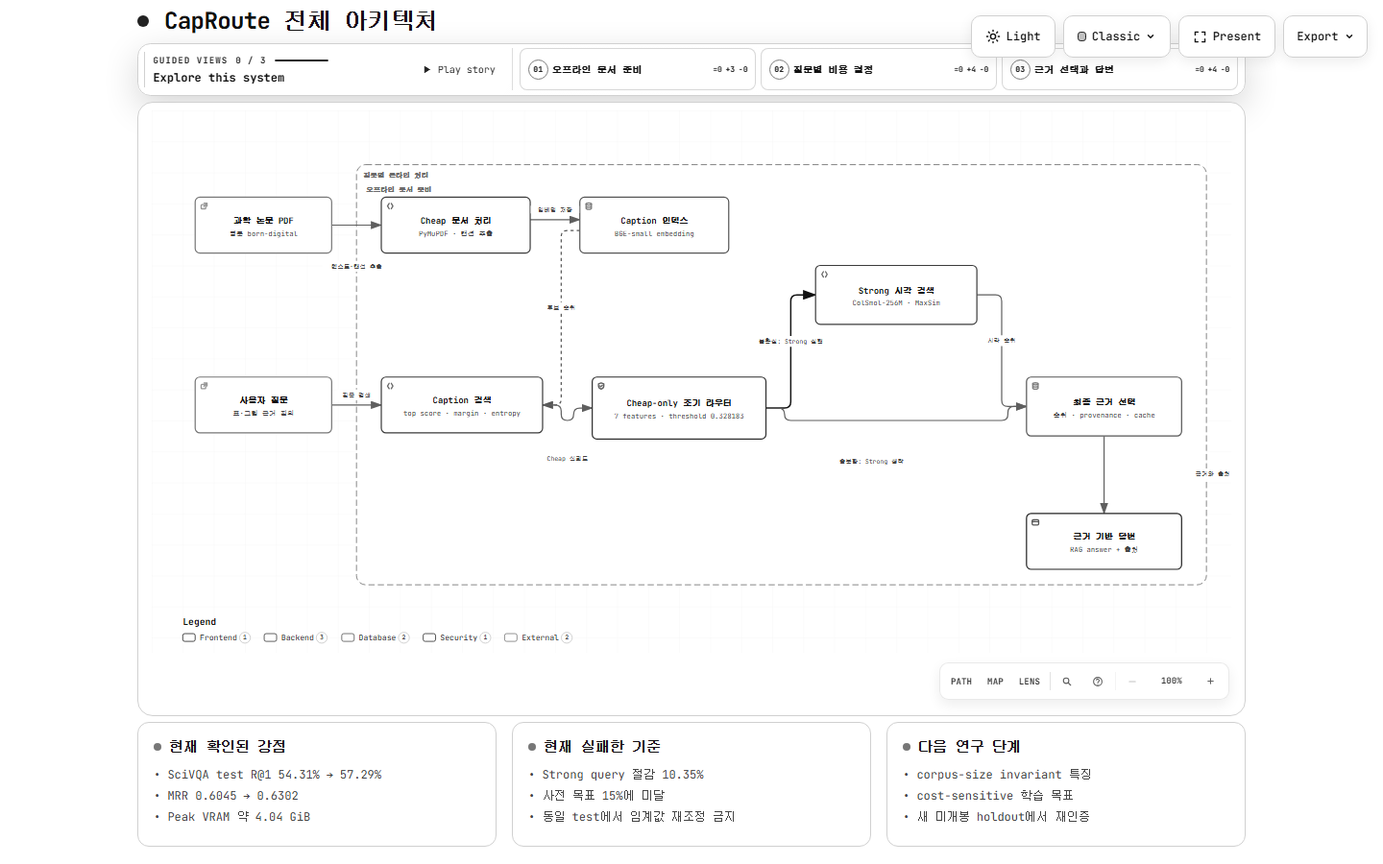
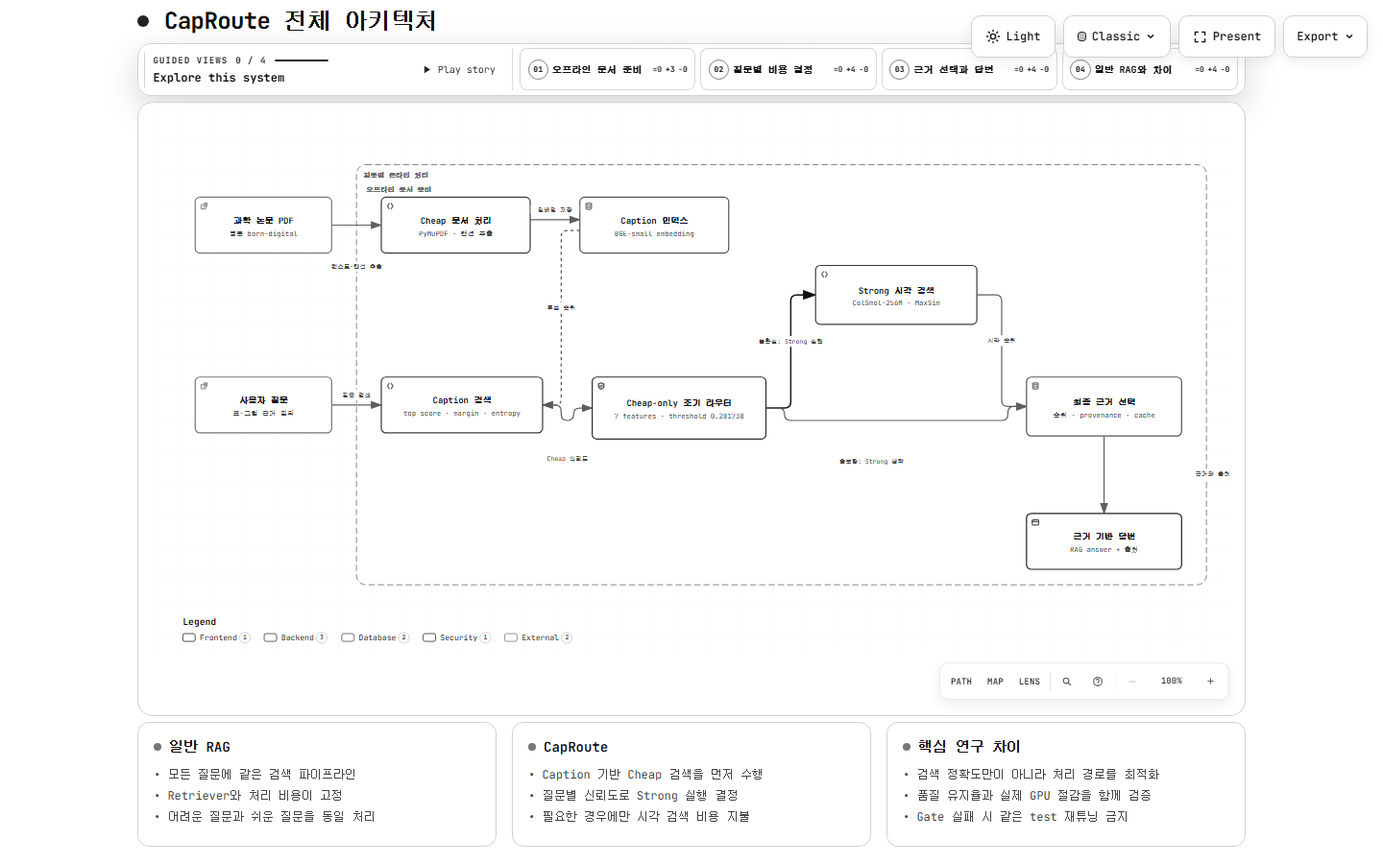
docs: compare CapRoute with standard RAG

diff --git a/caproute_full_architecture.html b/caproute_full_architecture.html
@@ -4969,52 +4969,25 @@ OTHER DEALINGS IN THE FONT SOFTWARE.
     }
   </style>
   <style id="caproute-monochrome-override">
-    /* Project rule: white canvas, black/gray text and connectors, no accent colors. */
-    html,
-    html[data-theme],
-    html[data-preset][data-theme] {
-      --bg: #ffffff !important;
-      --grid: #ececec !important;
-      --text: #111111 !important;
-      --text-muted: #444444 !important;
-      --text-dim: #666666 !important;
-      --text-faint: #777777 !important;
-      --panel: #ffffff !important;
-      --panel-border: #d0d0d0 !important;
-      --lane-fill: rgba(17, 17, 17, 0.025) !important;
-      --lane-stroke: #b8b8b8 !important;
-      --arrow: #5f5f5f !important;
-      --arrow-emphasis: #111111 !important;
-      --mask: #ffffff !important;
-      --frontend-fill: #ffffff !important;
-      --frontend-stroke: #222222 !important;
-      --backend-fill: #ffffff !important;
-      --backend-stroke: #3b3b3b !important;
-      --database-fill: #ffffff !important;
-      --database-stroke: #555555 !important;
-      --cloud-fill: #ffffff !important;
-      --cloud-stroke: #6b6b6b !important;
-      --security-fill: #ffffff !important;
-      --security-stroke: #2d2d2d !important;
-      --messagebus-fill: #ffffff !important;
-      --messagebus-stroke: #4a4a4a !important;
-      --external-fill: #ffffff !important;
-      --external-stroke: #777777 !important;
-      --toolbar-bg: rgba(255, 255, 255, 0.97) !important;
-      --toolbar-border: #d0d0d0 !important;
-      --toolbar-hover: #eeeeee !important;
-      --toolbar-menu-bg: #ffffff !important;
-      --toolbar-text: #111111 !important;
-      --guide-accent: #222222 !important;
-      --lens-color: #111111 !important;
-      --reach-color: #333333 !important;
-      --reach-fill: rgba(17, 17, 17, 0.06) !important;
+    html, html[data-theme], html[data-preset][data-theme] {
+      --bg:#fff!important;--grid:#ececec!important;--text:#111!important;
+      --text-muted:#444!important;--text-dim:#666!important;--text-faint:#777!important;
+      --panel:#fff!important;--panel-border:#d0d0d0!important;
+      --lane-fill:rgba(17,17,17,.025)!important;--lane-stroke:#b8b8b8!important;
+      --arrow:#5f5f5f!important;--arrow-emphasis:#111!important;--mask:#fff!important;
+      --frontend-fill:#fff!important;--frontend-stroke:#222!important;
+      --backend-fill:#fff!important;--backend-stroke:#3b3b3b!important;
+      --database-fill:#fff!important;--database-stroke:#555!important;
+      --cloud-fill:#fff!important;--cloud-stroke:#6b6b6b!important;
+      --security-fill:#fff!important;--security-stroke:#2d2d2d!important;
+      --messagebus-fill:#fff!important;--messagebus-stroke:#4a4a4a!important;
+      --external-fill:#fff!important;--external-stroke:#777!important;
+      --toolbar-bg:rgba(255,255,255,.97)!important;--toolbar-border:#d0d0d0!important;
+      --toolbar-hover:#eee!important;--toolbar-menu-bg:#fff!important;--toolbar-text:#111!important;
+      --guide-accent:#222!important;--lens-color:#111!important;
+      --reach-color:#333!important;--reach-fill:rgba(17,17,17,.06)!important;
     }
-    .c-region,
-    .c-lane,
-    .c-security-group {
-      fill: #ffffff !important;
-    }
+    .c-region,.c-lane,.c-security-group{fill:#fff!important}
   </style>
 </head>
 <body>
@@ -5128,7 +5101,7 @@ OTHER DEALINGS IN THE FONT SOFTWARE.
       </div>
     </div>
 
-    <script id="archify-guided-views-data" type="application/json">[{"id":"offline","label":"오프라인 문서 준비","focus":["scientific_pdf","cheap_ingestion","caption_index"],"note":"PDF에서 캡션을 추출하고 모든 질문이 공유하는 Cheap 인덱스를 만듭니다."},{"id":"decision","label":"질문별 비용 결정","focus":["user_query","caption_retrieval","early_router","visual_retrieval"],"note":"Cheap 신호만으로 Strong 시각 검색을 실행할지 먼저 결정합니다."},{"id":"answer","label":"근거 선택과 답변","focus":["caption_retrieval","visual_retrieval","evidence_selector","rag_answer"],"note":"선택된 검색 결과와 출처를 답변 생성 단계에 전달합니다."}]</script>
+    <script id="archify-guided-views-data" type="application/json">[{"id":"offline","label":"오프라인 문서 준비","focus":["scientific_pdf","cheap_ingestion","caption_index"],"note":"PDF에서 캡션을 추출하고 모든 질문이 공유하는 Cheap 인덱스를 만듭니다."},{"id":"decision","label":"질문별 비용 결정","focus":["user_query","caption_retrieval","early_router","visual_retrieval"],"note":"Cheap 신호만으로 Strong 시각 검색을 실행할지 먼저 결정합니다."},{"id":"answer","label":"근거 선택과 답변","focus":["caption_retrieval","visual_retrieval","evidence_selector","rag_answer"],"note":"선택된 검색 결과와 출처를 답변 생성 단계에 전달합니다."},{"id":"difference","label":"일반 RAG와 차이","focus":["caption_retrieval","early_router","visual_retrieval","evidence_selector"],"note":"일반 RAG는 모든 질문에 같은 검색 경로를 쓰지만, CapRoute는 Cheap 결과의 신뢰도를 보고 Strong 시각 검색 실행 여부를 질문별로 결정합니다."}]</script>
 
     <script id="archify-i18n-data" type="application/json">{"locale":"en","messages":{"viewer.kind.frontend":"Frontend","viewer.kind.backend":"Backend","viewer.kind.database":"Database","viewer.kind.cloud":"Cloud","viewer.kind.security":"Security","viewer.kind.messagebus":"Message bus","viewer.kind.external":"External","viewer.kind.neutral":"Neutral","viewer.kind.node":"Node","viewer.kind.start":"Start","viewer.kind.active":"Active","viewer.kind.waiting":"Waiting","viewer.kind.decision":"Decision","viewer.kind.success":"Success","viewer.kind.failure":"Failure","viewer.toolbar.actions":"Diagram actions","viewer.theme.toggle.title":"Toggle theme (T)","viewer.theme.toggle":"Toggle color theme","viewer.theme.dark":"Dark","viewer.theme.light":"Light","viewer.preset.choose.title":"Choose visual style (S cycles)","viewer.preset.choose":"Choose visual style","viewer.preset.style":"Style","viewer.preset.menu":"Visual style","viewer.preset.identity":"Visual identity","viewer.preset.cycles":"S cycles","viewer.preset.classic":"Classic","viewer.preset.classic.short":"Classic","viewer.preset.classic.hint":"Stable technical default","viewer.preset.flow":"Signal Flow","viewer.preset.flow.short":"Flow","viewer.preset.flow.hint":"Motion-forward presentation","viewer.preset.blueprint":"Blueprint","viewer.preset.blueprint.hint":"Engineering review","viewer.preset.editorial":"Editorial","viewer.preset.editorial.hint":"Publication and launch notes","viewer.preset.badge.signalFlow":"SIGNAL FLOW","viewer.preset.badge.blueprint":"BLUEPRINT / REV 01","viewer.preset.badge.editorial":"EDITORIAL / FIELD NOTE","viewer.preset.badge.editorialPlate":"ARCHIFY / PLATE 04","viewer.preset.current":"Visual style: {style}. Choose visual style","viewer.motion.live":"Live","viewer.motion.still":"Still","viewer.motion.pause":"Pause motion","viewer.motion.resume":"Resume motion","viewer.motion.reduced":"Motion paused by reduced-motion preference","viewer.motion.hidden":"Motion paused while this page is hidden","viewer.motion.yielding":"Pause motion; currently yielding to {owner}","viewer.motion.yielding.title":"Live preview enabled · yielding to {owner}","viewer.owner.story":"the guided story","viewer.owner.chapter":"the active chapter","viewer.owner.chapterPreview":"the chapter delta preview","viewer.owner.handoff":"the chapter handoff","viewer.owner.route":"Route Probe","viewer.owner.lens":"Semantic Lens","viewer.owner.relationship":"Relationship Preview","viewer.owner.intent":"Intent Trace","viewer.owner.focus":"semantic focus","viewer.owner.legend":"legend preview","viewer.owner.reader":"reader interaction","viewer.present.enter":"Enter presentation stage","viewer.present.enter.title":"Presentation stage (F)","viewer.present.exit":"Exit presentation stage","viewer.present.exit.title":"Exit presentation stage (F or Escape)","viewer.present.present":"Present","viewer.present.exit.label":"Exit","viewer.export.button":"Export","viewer.export.button.title":"Export diagram (E)","viewer.export.diagram":"Export diagram","viewer.export.menu":"Export","viewer.export.subtitle":"Portable, clean outputs","viewer.export.share":"Share","viewer.export.shareCard":"Share Card","viewer.export.routeShareCard":"Route Share Card","viewer.export.reachShareCard":"Reach Share Card","viewer.export.copyShareCard":"Copy Share Card","viewer.export.copyDiagram":"Copy diagram","viewer.export.clipboardPng":"PNG to clipboard","viewer.export.raster":"Raster images","viewer.export.image":"Image","viewer.export.lossless":"Lossless image","viewer.export.compact":"Compact image","viewer.export.modern":"Modern image","viewer.export.vectorMotion":"Vector and motion","viewer.export.vectorMotion.heading":"Vector \u0026 motion","viewer.export.editable":"Editable vector","viewer.export.motion6s":"6s motion","viewer.export.unsupported":"Not supported by this browser","viewer.export.clipboardUnsupported":"Clipboard image write not supported by this browser","viewer.export.clipboardUnsupported.period":"Clipboard image write not supported by this browser.","viewer.export.clipboardUnsupported.short":"Clipboard image write not supported in this browser.","viewer.export.motionUnavailable":"Motion capture unavailable in this browser","viewer.export.webmUnavailable":"WebM unavailable in this browser","viewer.export.failed":"Export failed: {message}","viewer.export.unknownVariant":"Unknown Share Card variant: {variant}","viewer.export.routeRequired":"Trace a route before exporting a Route Share Card","viewer.export.reachRequired":"Trace authored reach before exporting a Reach Share Card","viewer.export.unknown":"unknown","viewer.export.routeFailed":"Route Share Card export failed: {message}","viewer.export.reachFailed":"Reach Share Card export failed: {message}","viewer.export.copyFailed":"Copy failed: {message}","viewer.export.copiedPng":"Copied PNG to clipboard","viewer.export.copiedShare":"Copied Share Card","viewer.export.downloadedShare":"Downloaded Share Card","viewer.export.downloadedRoute":"Downloaded Route Share Card","viewer.export.downloadedReach":"Downloaded Reach Share Card","viewer.export.downloadedWebm":"Downloaded WebM","viewer.export.recording":"Recording 6 seconds of motion…","viewer.export.card.routeSummary.one":"Route: {source} → {target} · {count} directed hop","viewer.export.card.routeSummary.other":"Route: {source} → {target} · {count} directed hops","viewer.export.card.reachSummary":"Authored {direction} from {origin} · {nodes} · {links} · max {hops}","viewer.export.card.node.one":"{count} node","viewer.export.card.node.other":"{count} nodes","viewer.export.card.link.one":"{count} link","viewer.export.card.link.other":"{count} links","viewer.export.card.hop.one":"{count} hop","viewer.export.card.hop.other":"{count} hops","viewer.export.card.routeBadge":"ARCHIFY · ROUTE · {hops}","viewer.export.card.reachBadge":"ARCHIFY · {direction} REACH","viewer.export.card.defaultBadge":"ARCHIFY · {preset} · {theme}","viewer.export.direction.upstream":"Upstream","viewer.export.direction.downstream":"Downstream","viewer.export.error.canvasUnavailable":"Canvas unavailable for {label}","viewer.export.error.contextUnavailable":"2D canvas context unavailable for {label}","viewer.export.error.toBlobUnavailable":"canvas.toBlob unavailable for {label}","viewer.export.error.toBlobNull":"canvas.toBlob returned no data for {label}","viewer.export.error.variantsCombined":"Share Card variants cannot be combined","viewer.export.error.viewerState":"Share Card export could not remove temporary viewer state","viewer.export.error.routeState":"Route Card export could not preserve the resolved route safely","viewer.export.error.reachState":"Reach Card export could not preserve authored reach safely","viewer.export.error.webmRequirements":"WebM motion export requires a trace animation and browser MediaRecorder support","viewer.export.error.mediaRecorder":"MediaRecorder failed","viewer.export.error.emptyWebm":"MediaRecorder produced an empty WebM","viewer.export.error.webmBackground":"SVG background could not be loaded for WebM export","viewer.guided.region":"Guided diagram views","viewer.guided.previous":"Previous guided view","viewer.guided.previous.title":"Previous guided view ([)","viewer.guided.next":"Next guided view","viewer.guided.next.title":"Next guided view (])","viewer.guided.views":"Guided views","viewer.guided.explore":"Explore this system","viewer.guided.intro":"Step through curated paths without changing the source diagram.","viewer.guided.trail":"Story trail","viewer.guided.beat":"Beat","viewer.guided.nextBeat":"Next","viewer.guided.play":"Play guided story","viewer.guided.play.title":"Play guided story (P)","viewer.guided.pause":"Pause guided story","viewer.guided.pause.title":"Pause guided story (P)","viewer.guided.replay":"Replay guided story","viewer.guided.replay.title":"Replay guided story (P)","viewer.guided.playStory":"Play story","viewer.guided.pauseStory":"Pause","viewer.guided.replayStory":"Replay story","viewer.guided.motionUnavailable":"Story playback unavailable while motion is Still","viewer.guided.enableMotion":"Switch motion to Live to play the guided story","viewer.guided.selectBeatLink":"Select a Story Beat to copy its exact link","viewer.guided.copyMoment":"Copy moment","viewer.guided.momentCopied":"Moment link copied","viewer.guided.momentCopyFailed":"Could not copy story moment link","viewer.guided.copied":"Copied","viewer.guided.copyFailed":"Copy failed","viewer.guided.showAll":"Show all","viewer.guided.showAll.aria":"Show entire diagram","viewer.guided.chapters":"Story chapters","viewer.guided.storyTrail":"Story trail for {label}: {count} beats","viewer.guided.chapter.open":"Open chapter {index} of {total}: {label}, {count} stops","viewer.guided.chapter.current":"Current chapter {index} of {total}: {label}, {count} stops","viewer.guided.chapter.selectedNodes":"{count} selected nodes","viewer.guided.chapter.stops":"{count} stops","viewer.guided.chapter.stop.one":"{count} stop","viewer.guided.chapter.stop.other":"{count} stops","viewer.guided.chapter.current.title":"{label} — current chapter, {count} stops","viewer.guided.chapter.delta.expanded":"{stay} stay, {enter} enter, {leave} leave","viewer.guided.chapter.delta.aria":"Open chapter {index} of {total}: {label}. Chapter focus delta: {delta}","viewer.guided.chapter.delta.title":"{label} — {delta} chapter focus","viewer.guided.handoff":"{from} → {to} · via {label}","viewer.guided.share.chapter":"Chapter {index} / {total}","viewer.guided.share.initial":"Chapter 01 / 01","viewer.guided.share.default":"Guided chapter","viewer.guided.state.ready":"Ready","viewer.guided.state.playing":"Playing","viewer.guided.state.settled":"Settled","viewer.guided.state.paused":"Paused","viewer.guided.state.pinned":"Pinned","viewer.guided.state.still":"Still","viewer.guided.share.step":"Step {index} / {total} · {label}","viewer.guided.share.staticMoment":"{step} · Static moment","viewer.guided.share.complete":"{count} steps complete · {note}","viewer.guided.share.settled":"Path settled for reading.","viewer.guided.share.staticPath":"{count} steps · Static path","viewer.guided.share.ready":"{count} steps · Ready","viewer.guided.share.aria":"{state} chapter {index} of {total}: {label}. {beat}. {route}","viewer.guided.beat.start":"Beat {index} / {total} · {label} · starting point","viewer.guided.beat.forward":"Beat {index} / {total} · {from} → {to}","viewer.guided.beat.reverse":"Beat {index} / {total} · {from} → {to} · reverse authored link","viewer.guided.beat.multiple":"Beat {index} / {total} · {from} ⇄ {to} · {count} authored links","viewer.guided.beat.group":"Beat {index} / {total} · {from} · {to} · grouped · no direct link","viewer.guided.beat.aria.prefix":"Story beat {index} of {total}: {label}. ","viewer.guided.beat.aria.start":"Starting point.","viewer.guided.beat.aria.forward":"From {from} through one authored forward relationship.","viewer.guided.beat.aria.reverse":"From {from}; the authored relationship points from {to} to {from}.","viewer.guided.beat.aria.multiple":"From {from} through {count} authored relationships; shown without arbitrary motion.","viewer.guided.beat.aria.group":"Grouped from {from} with no direct authored relationship.","viewer.guided.caption.start":"Starting point","viewer.guided.caption.grouped":"Grouped transition · no direct authored link","viewer.guided.caption.more":" +{count} more","viewer.guided.caption.reverse":"Reverse authored relationship","viewer.guided.caption.relationships":"{count} authored relationships","viewer.guided.caption.relationship":"Authored relationship","viewer.guided.caption.direction":"authored direction: {from} → {to}","viewer.guided.caption.starting":"Authored starting point","viewer.guided.beatLink":"Copy link to current story moment: Beat {index} of {total}: {label}","viewer.guided.noStory":"This diagram has no authored guided story.","viewer.guide.eyebrow":"Diagram guide","viewer.guide.close":"Close diagram guide","viewer.guide.inspecting":"Inspecting compiled semantics","viewer.guide.actions":"Diagram exploration actions","viewer.guide.find":"Find any node","viewer.guide.find.hint":"Search labels, responsibilities, kinds, and stable IDs.","viewer.guide.route":"Trace a route","viewer.guide.route.aria":"Trace a directed route","viewer.guide.route.hint":"Ask how two semantic nodes connect in authored direction.","viewer.guide.map":"See the whole system","viewer.guide.map.hint":"Open Semantic Radar with a live viewport and stable nodes.","viewer.guide.lens":"Compare semantic kinds","viewer.guide.lens.hint":"Count roles, reveal their traffic, and compare direct authored links.","viewer.guide.story":"Play the guided story","viewer.guide.story.hint":"Walk the authored chapters and real relationships.","viewer.guide.present":"Enter Presentation Stage","viewer.guide.present.hint":"Give the live diagram the viewport without changing export.","viewer.guide.shortcuts":"Additional keyboard shortcuts","viewer.guide.shortcut.export":"Export","viewer.guide.shortcut.theme":"Theme","viewer.guide.shortcut.style":"Style","viewer.guide.shortcut.reset":"Reset","viewer.guide.shortcut.zoomIn":"Zoom in","viewer.guide.shortcut.zoomOut":"Zoom out","viewer.guide.shortcut.close":"Close","viewer.guide.facts":"{nodes} · {relationships} · {views}","viewer.guide.fact.node.one":"{count} semantic node","viewer.guide.fact.node.other":"{count} semantic nodes","viewer.guide.fact.relationship.one":"{count} relationship","viewer.guide.fact.relationship.other":"{count} relationships","viewer.guide.fact.view.one":"{count} guided view","viewer.guide.fact.view.other":"{count} guided views","viewer.guide.story.available.one":"Walk {count} authored chapter and its real relationships.","viewer.guide.story.available.other":"Walk {count} authored chapters and their real relationships.","viewer.guide.story.unavailable":"No authored guided story in this diagram.","viewer.guide.open":"Open diagram guide","viewer.guide.noStory":"This diagram has no authored guided story.","viewer.finder.title":"Find a node","viewer.finder.close":"Close node finder","viewer.finder.placeholder":"Search labels or IDs","viewer.finder.search":"Search diagram nodes","viewer.finder.results":"Diagram nodes","viewer.finder.empty":"No matching nodes","viewer.finder.result.focus":"Focus {label}","viewer.finder.result.routeStart":"Choose {label} as route start","viewer.finder.result.routeTarget":"Choose {label} as route destination, {links}","viewer.finder.status.empty":"No matching nodes","viewer.finder.status.count.one":"{count} matching node","viewer.finder.status.count.other":"{count} matching nodes","viewer.finder.noun.nodes":"nodes","viewer.finder.link.one":"{count} link","viewer.finder.link.other":"{count} links","viewer.finder.result.focus.one":"Focus {label}, {count} related connection","viewer.finder.result.focus.other":"Focus {label}, {count} related connections","viewer.finder.status.filtered":"{visible} of {available} {noun}","viewer.finder.status.all":"{available} {noun}","viewer.passport.eyebrow":"Semantic passport","viewer.passport.metadata":"Node metadata","viewer.passport.evidence":"Verified source evidence","viewer.passport.verified":"Verified source","viewer.passport.verificationScope":"Verified against local Git at the pinned revision. Remote access has not been checked.","viewer.passport.reach":"Authored reach","viewer.passport.reach.trace":"Trace authored reachability","viewer.passport.upstream":"Upstream","viewer.passport.downstream":"Downstream","viewer.passport.upstream.trace":"Trace upstream authored reachability","viewer.passport.downstream.trace":"Trace downstream authored reachability","viewer.passport.close":"Close semantic passport","viewer.passport.copy":"Copy link","viewer.passport.copy.focus":"Copy link to focused node","viewer.passport.relations":"Relations","viewer.passport.relations.show":"Show connected relationships","viewer.passport.relations.hide":"Hide connected relationships","viewer.passport.relations.list":"Connected relationships","viewer.passport.copyRelation":"Copy relation","viewer.passport.copyNode":"Copy node","viewer.passport.copyPinned":"Copy link to pinned relationship","viewer.passport.copySource":"Copy link to source node","viewer.passport.copy.focused.success":"Focused node link copied","viewer.passport.copy.pinned.success":"Pinned relationship link copied","viewer.passport.copy.focused.failed":"Could not copy focused node link","viewer.passport.copy.pinned.failed":"Could not copy pinned relationship link","viewer.passport.relationship.none":"No connected relationships","viewer.passport.relationship.count.one":"{count} relation","viewer.passport.relationship.count.other":"{count} relations","viewer.passport.relationship.show.one":"Show {count} connected relationship","viewer.passport.relationship.show.other":"Show {count} connected relationships","viewer.passport.relationship.summary":"{out} outgoing · {in} incoming{loops}","viewer.passport.relationship.loops":" · {count} loop","viewer.passport.relationship.explorer":"Direct relationship explorer","viewer.passport.relationship.help":"Use arrow keys to explore relationships. Press Enter or Space to pin details; Escape clears.","viewer.passport.relationship.loopsBack":"loops back","viewer.passport.relationship.connectsTo":"connects to","viewer.passport.relationship.connectsFrom":"connects from","viewer.passport.relationship.pinned":"Pinned relationship · {from} → {to} · {label}","viewer.passport.relationship.inspect":"Inspect relationship {index} of {total}: {from} to {to}, {label}. Press Enter for details.","viewer.passport.relationship.group.out":"Outgoing","viewer.passport.relationship.group.in":"Incoming","viewer.passport.relationship.group.loop":"Self loops","viewer.passport.relationship.row":"{group}: {relationship}, {neighbor}","viewer.passport.relationship.direction.out":"OUT →","viewer.passport.relationship.direction.in":"← IN","viewer.passport.relationship.direction.loop":"LOOP","viewer.passport.sourceCount.one":"{count} verified source reference","viewer.passport.sourceCount.other":"{count} verified source references","viewer.passport.sourceMarker":"SRC","viewer.passport.beacon.one":"{count} verified source; focus this node to inspect","viewer.passport.beacon.other":"{count} verified sources; focus this node to inspect","viewer.passport.repository.open":"Open verified repository revision {revision}","viewer.passport.source.open":"Open verified source {path} at revision {revision}","viewer.passport.source.openLink":"Open ↗","viewer.passport.reach.upstream.one":"Trace {count} upstream authored node","viewer.passport.reach.upstream.other":"Trace {count} upstream authored nodes","viewer.passport.reach.downstream.one":"Trace {count} downstream authored node","viewer.passport.reach.downstream.other":"Trace {count} downstream authored nodes","viewer.passport.reach.noUpstream":"No upstream authored nodes","viewer.passport.reach.noDownstream":"No downstream authored nodes","viewer.passport.reach.status":"{direction} · {nodes} nodes · {links} links · max {hops} hops","viewer.route.eyebrow":"Route probe","viewer.route.start":"Choose a start node","viewer.route.start.find":"Find start","viewer.route.start.find.aria":"Find a route start","viewer.route.copy":"Copy link","viewer.route.copy.aria":"Copy link to traced route","viewer.route.clear":"Clear","viewer.route.clear.aria":"Clear route probe","viewer.route.traced":"Traced route","viewer.route.pickTwo":"Pick two semantic nodes on the diagram","viewer.route.pickOne":"Pick a semantic node on the diagram","viewer.route.controls":"Route journey controls","viewer.route.previous":"Previous route position","viewer.route.play":"Play route journey","viewer.route.pause":"Pause route journey","viewer.route.replay":"Replay route journey","viewer.route.next":"Next route position","viewer.route.journey":"Journey","viewer.route.pause.label":"Pause","viewer.route.replay.label":"Replay","viewer.route.overview":"Overview","viewer.route.overview.aria":"Show complete route overview","viewer.route.instructions":"Choose the source, then the destination. Direction matters.","viewer.route.destination":"Choose a destination from {label}","viewer.route.destination.find":"Find target","viewer.route.destination.find.aria":"Find a reachable route destination","viewer.route.differentDestination":"Choose a different destination","viewer.route.distinct":"A route needs two distinct semantic nodes.","viewer.route.unreachable":"No directed route to {label}","viewer.route.unreachable.detail":"{target} is not reachable from {source}. Pick a highlighted destination.","viewer.route.start.instructions":"Select the source. The next step will reveal only directed destinations.","viewer.route.copy.success":"Traced route link copied","viewer.route.copy.failed":"Could not copy traced route link","viewer.route.position":"Route position {index} of {total}: {label}","viewer.route.step":"Step {index} of {total} · {phase} · {label}","viewer.route.motionRequired":"Automatic journey requires Live motion","viewer.route.trigger.clear":"Clear traced route","viewer.route.overview.status":"{nodes} · {hops} · shortest authored route","viewer.route.overview.node.one":"{count} node","viewer.route.overview.node.other":"{count} nodes","viewer.route.overview.hop.one":"{count} directed hop","viewer.route.overview.hop.other":"{count} directed hops","viewer.route.phase.playing":"Playing","viewer.route.phase.complete":"Complete","viewer.route.phase.inspecting":"Inspecting","viewer.route.destination.count.one":"{count} directed destination available. Pick a highlighted node.","viewer.route.destination.count.other":"{count} directed destinations available. Pick a highlighted node.","viewer.route.noOutgoing":"No outgoing route starts here. Clear and choose another source.","viewer.route.result.title":"{source} to {target}","viewer.route.finder.source.title":"Choose route start","viewer.route.finder.source.placeholder":"Search route sources","viewer.route.finder.source.empty":"No matching route sources","viewer.route.finder.source.results":"Nodes that can start a route","viewer.route.finder.source.noun":"route sources","viewer.route.finder.source.badge":"start","viewer.route.finder.target.title":"Destination from {label}","viewer.route.finder.target.placeholder":"Search reachable destinations","viewer.route.finder.target.empty":"No matching reachable destinations","viewer.route.finder.target.results":"Reachable route destinations","viewer.route.finder.target.noun":"reachable destinations","viewer.route.hop.one":"{count} hop","viewer.route.hop.other":"{count} hops","viewer.lens.eyebrow":"Semantic lens","viewer.lens.title":"Compare system roles","viewer.lens.close":"Close semantic lens","viewer.lens.instruction":"Choose up to two semantic kinds. One reveals its real traffic; two compare only direct authored relationships.","viewer.lens.kinds":"Semantic kinds","viewer.lens.choose":"Choose a kind to inspect its nodes and touching relationships.","viewer.lens.copy":"Copy link to semantic lens","viewer.lens.clear":"Clear semantic lens","viewer.lens.open":"Open semantic lens","viewer.lens.openActive":"Open active semantic lens","viewer.lens.legend":"Semantic legend","viewer.lens.legend.inspect.one":"Inspect {label}, {count} node","viewer.lens.legend.inspect.other":"Inspect {label}, {count} nodes","viewer.lens.kind.count.one":"{label}, {count} node","viewer.lens.kind.count.other":"{label}, {count} nodes","viewer.lens.compare.one":"{first} → {second}: {forward} · {second} → {first}: {reverse} · {count} direct relationship","viewer.lens.compare.other":"{first} → {second}: {forward} · {second} → {first}: {reverse} · {count} direct relationships","viewer.lens.single":"{nodes} · {relationships} · connected peers remain visible","viewer.lens.node.one":"{count} {label} node","viewer.lens.node.other":"{count} {label} nodes","viewer.lens.relationship.one":"{count} touching relationship","viewer.lens.relationship.other":"{count} touching relationships","viewer.radar.title":"Semantic radar","viewer.radar.building":"Building overview","viewer.radar.openFull":"Open full semantic radar","viewer.radar.open":"Open radar","viewer.radar.close":"Close semantic radar","viewer.radar.surface":"Diagram overview. Click a node to focus it, or use arrow keys to pan.","viewer.radar.click":"Click node","viewer.radar.drag":"Drag to pan","viewer.radar.space":"Semantic radar needs more MAP space.","viewer.radar.nodes":"Semantic diagram radar nodes","viewer.radar.focus":"Focus {label} from Semantic Radar","viewer.radar.status":"{count} nodes · {viewport}","viewer.radar.fullMap":"{count} nodes · full map","viewer.radar.compacted":"Radar compacted to avoid covering the Semantic Passport or MAP controls.","viewer.radar.cancelWaiting":"Cancel semantic radar waiting for more MAP space","viewer.radar.needsSpace":"Semantic radar needs more visible MAP space","viewer.radar.viewport.full":"full map","viewer.radar.viewport.width":"{percent}% width","viewer.radar.viewport.scale":"{percent}% viewport","viewer.nav.controls":"Diagram view controls","viewer.nav.route":"Trace a directed route","viewer.nav.route.title":"Trace route (R)","viewer.nav.route.short":"PATH","viewer.nav.radar":"Open semantic radar","viewer.nav.radar.title":"Semantic radar (M)","viewer.nav.radar.short":"MAP","viewer.nav.lens":"Open semantic lens","viewer.nav.lens.title":"Semantic lens (L)","viewer.nav.lens.short":"LENS","viewer.nav.find":"Find a node","viewer.nav.find.title":"Find a node (/)","viewer.nav.guide":"Open diagram guide","viewer.nav.guide.title":"Diagram guide (?)","viewer.nav.zoomOut":"Zoom out","viewer.nav.zoomOut.title":"Zoom out (-)","viewer.nav.reset":"Reset diagram view","viewer.nav.reset.title":"Reset view (0)","viewer.nav.read":"READ","viewer.nav.zoomIn":"Zoom in","viewer.nav.zoomIn.title":"Zoom in (+)","viewer.nav.camera":"{hint}. Reset diagram view","viewer.nav.camera.title":"{semantic}{hint} · reset view (0)","viewer.nav.camera.semantic":"Semantic camera active · ","viewer.nav.level.map":"MAP","viewer.nav.level.read":"READ","viewer.nav.level.full":"FULL","viewer.nav.level.auto":"AUTO","viewer.nav.detail.map":"Zoom in to reveal relationship labels and node context","viewer.nav.detail.read":"Zoom in again to reveal tags and annotations","viewer.nav.detail.full":"Full diagram detail","viewer.intent.summary":"{label}. {out} outgoing, {in} incoming{loops}. {total} connections. Press Enter for details.","viewer.intent.loops":", {count} self loop","viewer.common.copied":"Copied","viewer.common.copyFailed":"Copy failed","viewer.common.copyLink":"Copy link","viewer.common.clear":"Clear","viewer.common.close":"Close"}}</script>
     <div class="guided-views no-print" id="guided-views" hidden aria-label="Guided diagram views">
@@ -5273,8 +5246,8 @@ OTHER DEALINGS IN THE FONT SOFTWARE.
         <text data-detail="context" x="400" y="394" class="t-muted" font-size="9" text-anchor="middle">top score · margin · entropy</text>
         </g>
 
-        <g id="node-early_router" data-node-id="early_router" data-node-label="Cheap-only 조기 라우터" tabindex="0" role="button" aria-label="Focus Cheap-only 조기 라우터, 7 features · threshold 0.328183, 질문별 온라인 처리" aria-pressed="false" data-node-kind="security" data-node-sublabel="7 features · threshold 0.328183" data-node-tag="비용 결정" data-node-context="질문별 온라인 처리">
-          <title>Cheap-only 조기 라우터 · 7 features · threshold 0.328183 · 질문별 온라인 처리 · 비용 결정</title>
+        <g id="node-early_router" data-node-id="early_router" data-node-label="Cheap-only 조기 라우터" tabindex="0" role="button" aria-label="Focus Cheap-only 조기 라우터, 7 features · threshold 0.281738, 질문별 온라인 처리" aria-pressed="false" data-node-kind="security" data-node-sublabel="7 features · threshold 0.281738" data-node-tag="비용 결정" data-node-context="질문별 온라인 처리">
+          <title>Cheap-only 조기 라우터 · 7 features · threshold 0.281738 · 질문별 온라인 처리 · 비용 결정</title>
           <rect x="568" y="344" width="224" height="80" rx="6" class="c-mask"/>
           <rect x="568" y="344" width="224" height="80" rx="6" class="c-security" stroke-width="1.5"/>
           <g aria-hidden="true" data-semantic-sigil="security" class="semantic-sigil s-security" transform="translate(574 350) scale(0.6875)">
@@ -5282,7 +5255,7 @@ OTHER DEALINGS IN THE FONT SOFTWARE.
             <path d="m5.8 8 1.5 1.5 3-3"/>
           </g>
           <text data-node-label="" data-detail-anchor="" x="680" y="382" class="t-primary" font-size="11" font-weight="600" text-anchor="middle">Cheap-only 조기 라우터</text>
-        <text data-detail="context" x="680" y="398" class="t-muted" font-size="9" text-anchor="middle">7 features · threshold 0.328183</text>
+        <text data-detail="context" x="680" y="398" class="t-muted" font-size="9" text-anchor="middle">7 features · threshold 0.281738</text>
         <text data-detail="fine" x="680" y="416" class="t-security" font-size="7" text-anchor="middle">비용 결정</text>
         </g>
 
@@ -5585,36 +5558,36 @@ OTHER DEALINGS IN THE FONT SOFTWARE.
       <div class="card">
         <div class="card-header">
           <div class="card-dot slate"></div>
-          <h3>현재 확인된 강점</h3>
+          <h3>일반 RAG</h3>
         </div>
         <ul>
-          <li>&bull; SciVQA test R@1 54.31% → 57.29%</li>
-          <li>&bull; MRR 0.6045 → 0.6302</li>
-          <li>&bull; Peak VRAM 약 4.04 GiB</li>
+          <li>&bull; 모든 질문에 같은 검색 파이프라인</li>
+          <li>&bull; Retriever와 처리 비용이 고정</li>
+          <li>&bull; 어려운 질문과 쉬운 질문을 동일 처리</li>
         </ul>
       </div>
 
       <div class="card">
         <div class="card-header">
           <div class="card-dot slate"></div>
-          <h3>현재 실패한 기준</h3>
+          <h3>CapRoute</h3>
         </div>
         <ul>
-          <li>&bull; Strong query 절감 10.35%</li>
-          <li>&bull; 사전 목표 15%에 미달</li>
-          <li>&bull; 동일 test에서 임계값 재조정 금지</li>
+          <li>&bull; Caption 기반 Cheap 검색을 먼저 수행</li>
+          <li>&bull; 질문별 신뢰도로 Strong 실행 결정</li>
+          <li>&bull; 필요한 경우에만 시각 검색 비용 지불</li>
         </ul>
       </div>
 
       <div class="card">
         <div class="card-header">
           <div class="card-dot slate"></div>
-          <h3>다음 연구 단계</h3>
+          <h3>핵심 연구 차이</h3>
         </div>
         <ul>
-          <li>&bull; corpus-size invariant 특징</li>
-          <li>&bull; cost-sensitive 학습 목표</li>
-          <li>&bull; 새 미개봉 holdout에서 재인증</li>
+          <li>&bull; 검색 정확도만이 아니라 처리 경로를 최적화</li>
+          <li>&bull; 품질 유지율과 실제 GPU 절감을 함께 검증</li>
+          <li>&bull; Gate 실패 시 같은 test 재튜닝 금지</li>
         </ul>
       </div>
     </div>

diff --git a/architecture_explained.html b/architecture_explained.html
@@ -76,6 +76,18 @@
       <div class="callout" style="margin-top:13px"><strong>인과 구조는 수리했지만 비용 일반화는 실패</strong><p>Early router는 실제로 Strong 계산을 건너뛸 수 있고 외부 품질도 개선했습니다. 다만 SciVQA test에서 Strong skip이 10.35%에 그쳐 사전 목표 15%를 통과하지 못했습니다.</p></div>
     </section>
 
+    <section id="difference">
+      <div class="section-head"><div><div class="kicker">Difference · General RAG vs CapRoute</div><h2>일반 RAG와 무엇이 다른가</h2></div><p>답변 생성 구조 자체보다, 검색 근거를 만드는 데 얼마만큼의 처리를 사용할지 질문별로 선택한다는 점이 핵심입니다.</p></div>
+      <div class="table-wrap"><table class="compare"><thead><tr><th>비교 항목</th><th>일반 RAG</th><th>CapRoute</th></tr></thead><tbody>
+        <tr><td>검색 경로</td><td>모든 질문에 같은 retriever 사용</td><td>Cheap 검색 후 필요한 질문만 Strong 시각 검색</td></tr>
+        <tr><td>판단 시점</td><td>검색 방식이 배포 전에 고정됨</td><td>질문과 Cheap 검색 결과를 본 뒤 실시간 결정</td></tr>
+        <tr><td>비용 구조</td><td>질문 난이도와 무관하게 거의 일정</td><td>쉬운 질문은 GPU 경로를 생략해 실제 연산 절감</td></tr>
+        <tr><td>최적화 목표</td><td>Recall·MRR 같은 검색 품질 중심</td><td>품질 유지율과 GPU 시간·호출률을 함께 최적화</td></tr>
+        <tr><td>실패 처리</td><td>전체 평균 성능으로 보고하기 쉬움</td><td>사전 Gate와 미개봉 holdout으로 비용·품질 실패를 분리</td></tr>
+      </tbody></table></div>
+      <div class="callout" style="margin-top:13px"><strong>한 문장으로 정리</strong><p>일반 RAG가 “어떤 문서를 찾을까?”에 집중한다면, CapRoute는 그 앞에 “이 질문에 비싼 시각 처리가 정말 필요한가?”라는 결정을 추가합니다.</p></div>
+    </section>
+
     <section>
       <div class="section-head"><div><div class="kicker">03 · Components</div><h2>각 부품이 실제로 하는 일</h2></div><p>아키텍처 문서의 용어를 구현 단위로 풀어쓴 설명입니다.</p></div>
       <div class="steps">
@@ -83,7 +95,7 @@
         <article class="step"><div class="step-index">2</div><div><h3>Caption text representation</h3><p>표·그림 캡션을 BGE-small 임베딩으로 바꾸고 질문과의 의미 유사도를 계산합니다. 현재 Cheap 기준선입니다.</p></div></article>
         <article class="step"><div class="step-index">3</div><div><h3>Visual representation</h3><p>ColSmol-256M이 이미지와 질문을 여러 토큰 벡터로 표현하고 <span class="term" tabindex="0" data-tip="질문의 각 토큰이 문서 토큰 중 가장 비슷한 값과 만나는 점수를 합산하는 방식입니다.">MaxSim</span>으로 순위를 만듭니다.</p></div></article>
         <article class="step"><div class="step-index">4</div><div><h3>Capability router</h3><p>“질문이 어려운가?”가 아니라 “이 질문에서 visual 결과가 caption보다 나을 것인가?”를 Logistic Regression으로 예측합니다.</p></div></article>
-        <article class="step"><div class="step-index">5</div><div><h3>Early policy threshold</h3><p>Cheap-only 확률이 0.328183 이상일 때만 ColSmol을 실행합니다. SPIQA calibration 94문항에서 정하고 SciVQA test를 열기 전에 잠갔습니다.</p></div></article>
+        <article class="step"><div class="step-index">5</div><div><h3>Early policy threshold</h3><p>규모 불변 Cheap-only 확률이 0.281738 이상일 때만 ColSmol을 실행합니다. SciVQA validation의 paper-disjoint 개발 분할에서 정하고 SPIQA test-B를 열기 전에 잠갔습니다.</p></div></article>
         <article class="step"><div class="step-index">6</div><div><h3>Canonical result & provenance</h3><p>어느 문서·질문·경로·모델에서 결과가 나왔는지 기록합니다. 동일한 결과를 재사용하도록 inference output을 cache합니다.</p></div></article>
       </div>
     </section>
@@ -94,9 +106,9 @@
       <div class="explain">
         <article class="card"><h3>질문 특징</h3><p>질문 길이, table·figure·graph·chart 같은 표현 포함 여부</p></article>
         <article class="card"><h3>Cheap 검색 신뢰도</h3><p>Caption의 1등 점수, 1·2등 점수 차이, 점수 분포 entropy</p></article>
-        <article class="card"><h3>문서 후보 특징</h3><p>후보 이미지 개수의 로그. ColSmol 파생 점수나 두 검색기의 차이는 사용하지 않습니다.</p></article>
+        <article class="card"><h3>규모 불변 특징</h3><p>질문 토큰 다양도를 사용하고 후보 이미지 개수는 제거했습니다. ColSmol 파생 점수도 사용하지 않습니다.</p></article>
       </div>
-      <div class="formula"><code>if p ≥ 0.328183 → ColSmol 실행 후 그 순위 사용<br>else → ColSmol 생략, Caption BGE 순위 사용</code></div>
+      <div class="formula"><code>if p ≥ 0.281738 → ColSmol 실행 후 그 순위 사용<br>else → ColSmol 생략, Caption BGE 순위 사용</code></div>
       <div class="callout"><strong>이제 호출 절감률을 직접 셀 수 있다</strong><p>p 계산에 ColSmol 값이 전혀 필요하지 않습니다. 따라서 Caption 경로를 고르면 Strong query encoding과 MaxSim을 실제로 생략합니다. 기존 13-feature 모델은 비용 라우터가 아니라 선택적 late fuser로만 남깁니다.</p></div>
       <div class="two">
         <div class="callout"><strong>왜 margin을 보는가?</strong><p>1등과 2등 점수가 거의 같으면 검색기가 확신하지 못하는 상황일 수 있습니다. 단, margin 하나만으로 결정하지 않고 여러 신호를 함께 봅니다.</p></div>
